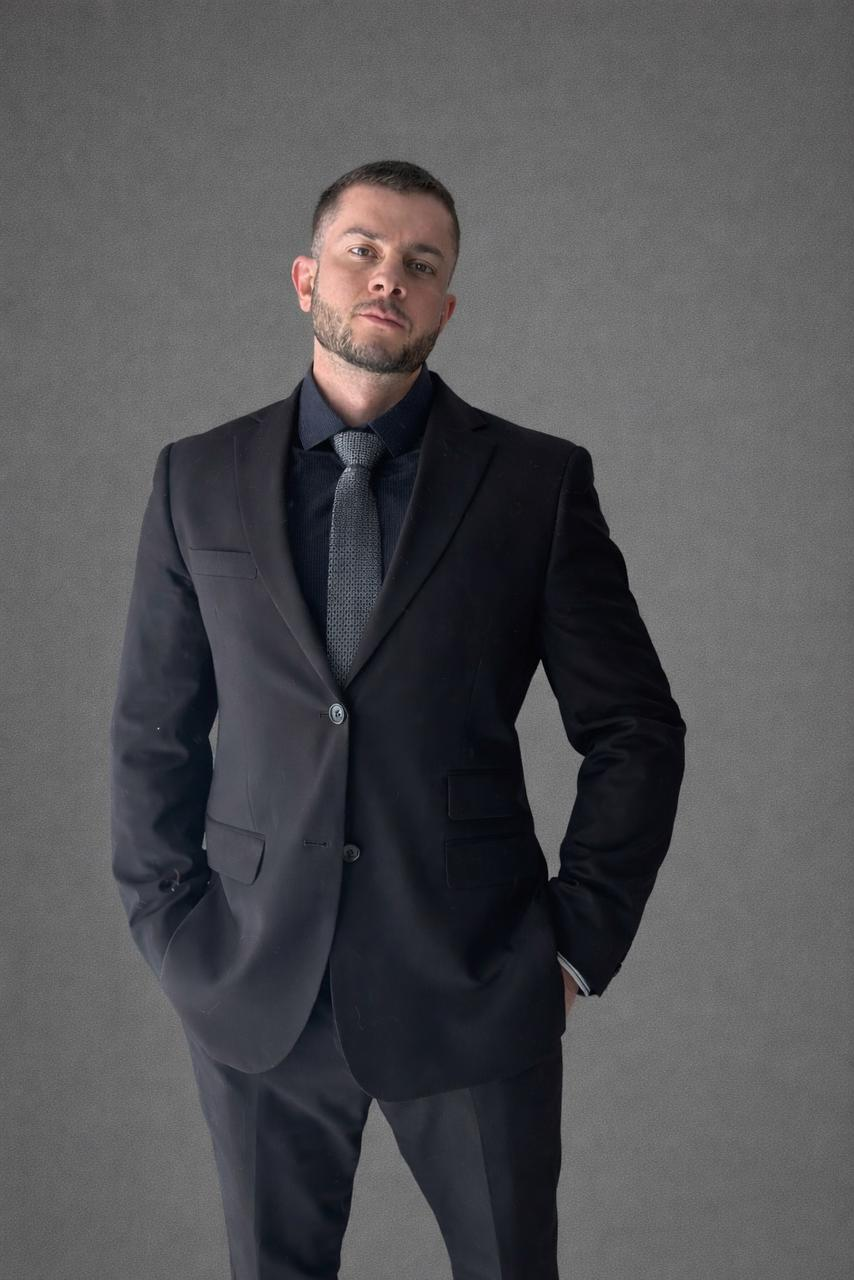
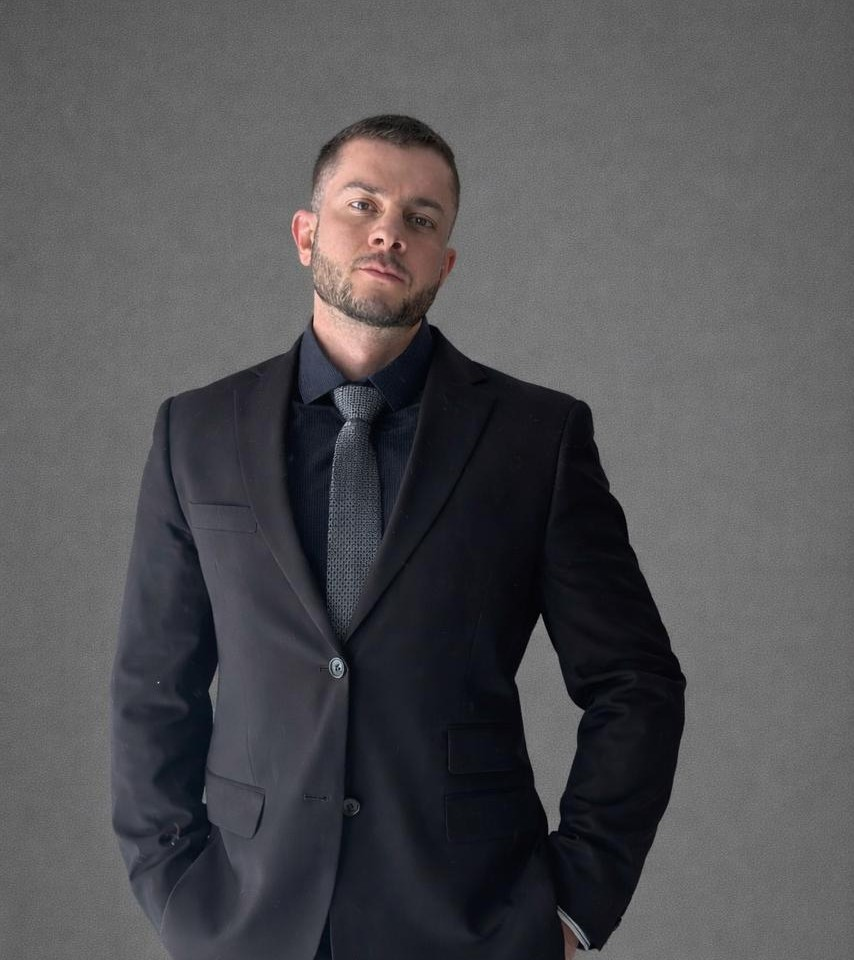
Alterando Imagens

Changed region(s): [[0.1218, 0.0938, 0.822, 1.0], [0.548, 0.7812, 0.5785, 0.8125], [0.5176, 0.75, 0.548, 0.7812]]

diff --git a/src/components/sections/Institucional/Apresentação.tsx b/src/components/sections/Institucional/Apresentação.tsx
@@ -9,7 +9,7 @@ export default function Apresentacao() {
     "Advocacia especializada em Direito Criminal, Civil e Família atuando de forma estratégica e humanizada";
   const subheadline =
     "Prestação de serviço de advocacia responsável e eficiente.";
-  const photoUrl = "/img/felipe2.jpg";
+  const photoUrl = "/img/felipe3.jpg";
   const whatsapp = "5548991447874"; // mantido
   const ctaLabel = "Entrar em Contato";
   const secondaryCtaHref = "#atuacao";

diff --git a/src/app/page.tsx b/src/app/page.tsx
@@ -14,7 +14,7 @@ export default function Home() {
 
       <Intro
         name="Felipe Cesario"
-        photoUrl="/img/felipe2.jpg"
+        photoUrl="/img/felipe3.jpg"
       />
 
       <Authority
